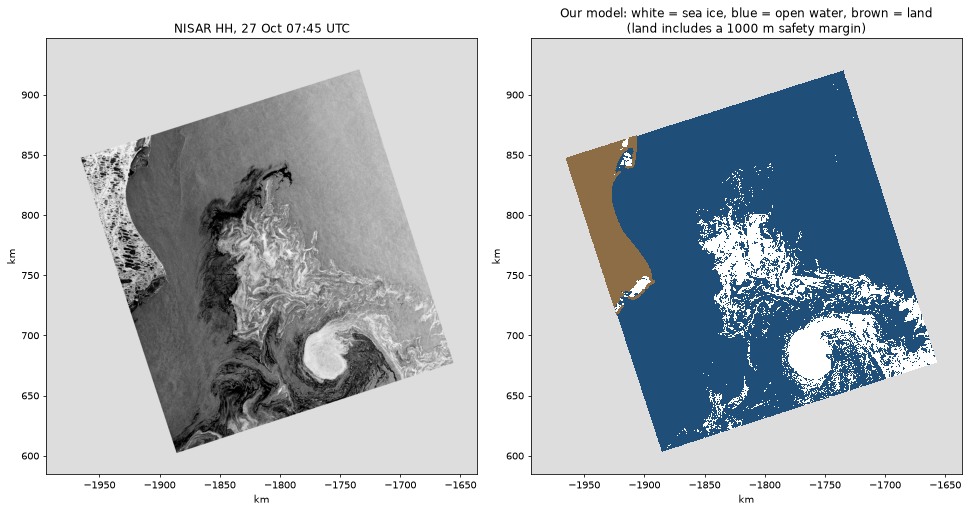
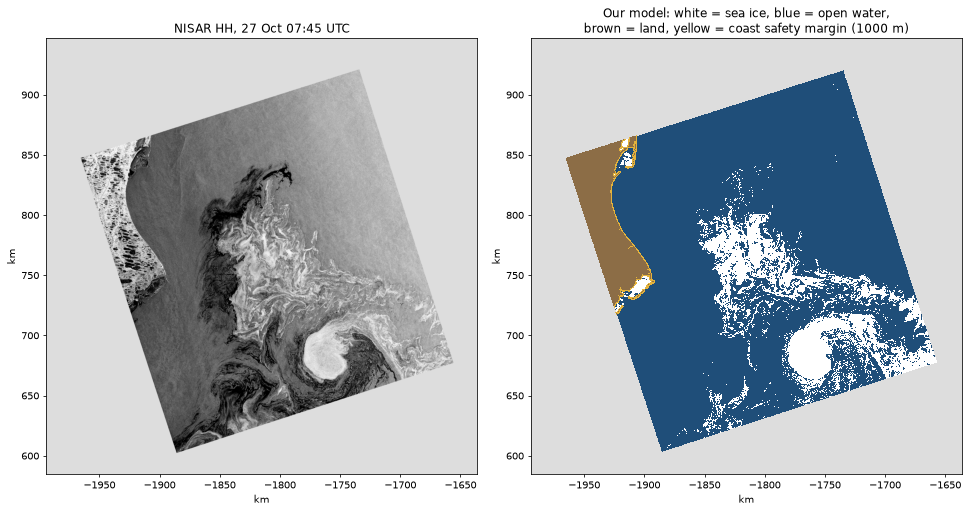
Coast margin as its own class, and maps saved to disk for the interface
- land_mask.land_and_margin: real land and the safety strip as two grids; land outside the grid still casts its margin
- classify_scene: LAND = 2, COAST_MARGIN = 3 (was both 2)
- evaluate_detection.py map SCENE also saves data/maps/SCENE.npz; load_map reads it back without computing

diff --git a/scripts/evaluate_detection.py b/scripts/evaluate_detection.py
@@ -6,7 +6,9 @@ Refuses to run if no model is frozen. Writes models/test_result.json and figures
 
 Map of any downloaded scene (sea ice / open water / land), without touching the test result:
 
-    python scripts/evaluate_detection.py map SCENE_NAME      # writes figures/map_<start time>.png
+    python scripts/evaluate_detection.py map SCENE_NAME      # writes data/maps/SCENE_NAME.npz + figures/map_<start time>.png
+
+The saved map loads in well under a second with `load_map(SCENE_NAME)`: nothing is computed again.
 """
 from __future__ import annotations
 
@@ -23,8 +25,8 @@ from scripts import detection, land_mask, mongo_store, reference         # noqa:
 from scripts.nisar_loader import load_gcov                               # noqa: E402
 from scripts.train_detection import ICE, WATER, load_table, scores       # noqa: E402
 
-MODELS, FIGS = ROOT / "models", ROOT / "figures"
-WATER_C, ICE_C, UNSURE_C, LAND_C = "#1f4e79", "#ffffff", "#9ecae1", "#8c6d46"
+MODELS, FIGS, MAPS = ROOT / "models", ROOT / "figures", ROOT / "data" / "maps"
+WATER_C, ICE_C, UNSURE_C, LAND_C, MARGIN_C = "#1f4e79", "#ffffff", "#9ecae1", "#8c6d46", "#e3b23c"
 
 
 def load_model():
@@ -44,51 +46,73 @@ def predict_scene(frozen, scene):
     return water, usable
 
 
-SEA_ICE, OPEN_WATER, LAND, NO_DATA = 0, 1, 2, 255
+SEA_ICE, OPEN_WATER, LAND, COAST_MARGIN, NO_DATA = 0, 1, 2, 3, 255
+CLASS_NAMES = {SEA_ICE: "sea ice", OPEN_WATER: "open water", LAND: "land", COAST_MARGIN: "coast margin"}
 
 
 def classify_scene(frozen, scene, margin_m: float | None = None) -> np.ndarray:
-    """Map of SEA_ICE / OPEN_WATER / LAND / NO_DATA (uint8). Land comes from the coastline, never from the model.
+    """Map of SEA_ICE / OPEN_WATER / LAND / COAST_MARGIN / NO_DATA (uint8).
 
-    The model first answers on the untouched radar data, exactly as in training; land is painted over afterwards.
-    `margin_m=None` takes the safety margin around land from LAND_MARGIN_M (.env).
+    The model first answers on the untouched radar data, exactly as in training. Afterwards real land and the
+    safety strip of sea next to it (COAST_MARGIN) are painted over, from the coastline, never from the model.
+    `margin_m=None` takes the width of the strip from LAND_MARGIN_M (.env).
     """
     water, usable = predict_scene(frozen, scene)
     out = np.full(usable.shape, NO_DATA, "uint8")
     out[usable] = np.where(water[usable], OPEN_WATER, SEA_ICE)
-    land = land_mask.land_mask(scene.x, scene.y, scene.epsg, margin_m)
-    out[land & np.isfinite(scene.power["hh"])] = LAND
+    land, margin = land_mask.land_and_margin(scene.x, scene.y, scene.epsg, margin_m)
+    seen = np.isfinite(scene.power["hh"])
+    out[margin & seen] = COAST_MARGIN
+    out[land & seen] = LAND
     return out
 
 
+def save_map(name: str, classes: np.ndarray, scene, margin_m: float) -> Path:
+    """Store a finished map with its grid, so an interface can load it without computing anything."""
+    MAPS.mkdir(parents=True, exist_ok=True)
+    out = MAPS / f"{name}.npz"
+    np.savez_compressed(out, classes=classes, x=scene.x, y=scene.y, epsg=scene.epsg, margin_m=margin_m)
+    return out
+
+
+def load_map(name: str) -> dict:
+    """A saved map: classes (uint8 grid), x, y (pixel centres, metres), epsg, margin_m."""
+    path = MAPS / f"{name}.npz"
+    if not path.exists():
+        raise FileNotFoundError(f"{path} is missing. Run: python scripts/evaluate_detection.py map {name}")
+    with np.load(path) as f:
+        return {"classes": f["classes"], "x": f["x"], "y": f["y"], "epsg": int(f["epsg"]), "margin_m": float(f["margin_m"])}
+
+
 def draw_classes(ax, classes, extent, step: int = 2):
-    """Draw a classify_scene map: white = sea ice, blue = open water, brown = land, background = no data."""
+    """Draw a classify_scene map: white = sea ice, blue = water, brown = land, yellow = coast margin, grey = no data."""
     from matplotlib.colors import ListedColormap
     shown = np.where(classes == NO_DATA, np.nan, classes.astype("float32"))
-    ax.imshow(shown[::step, ::step], cmap=ListedColormap([ICE_C, WATER_C, LAND_C]), vmin=0, vmax=2, extent=extent, interpolation="nearest")
-    ax.set_title("Our model: white = sea ice, blue = open water, brown = land")
+    ax.imshow(shown[::step, ::step], cmap=ListedColormap([ICE_C, WATER_C, LAND_C, MARGIN_C]), vmin=0, vmax=3, extent=extent, interpolation="nearest")
+    ax.set_title("Our model: white = sea ice, blue = open water,\nbrown = land, yellow = coast safety margin")
 
 
 def map_figure(frozen, name: str) -> Path:
-    """Radar image next to the three-class map of one scene. Returns the path of the figure."""
+    """Compute the map of one scene once, save it, and draw it next to the radar image. Returns the figure path."""
     import matplotlib
     matplotlib.use("Agg")
     import matplotlib.pyplot as plt
     scene = load_gcov(detection.DATA / f"{name}.h5")
     margin = land_mask.margin_from_env()
     classes = classify_scene(frozen, scene, margin)
+    print("saved", save_map(name, classes, scene, margin))
     extent = [scene.x[0] / 1e3, scene.x[-1] / 1e3, scene.y[-1] / 1e3, scene.y[0] / 1e3]
     fig, axes = plt.subplots(1, 2, figsize=(14, 7))
     axes[0].imshow(10 * np.log10(np.maximum(scene.power["hh"], 1e-4))[::2, ::2], cmap="gray", vmin=-26, vmax=-11, extent=extent)
     axes[0].set_title(f"NISAR HH, {detection.scene_time(name):%d %b %H:%M} UTC")
     draw_classes(axes[1], classes, extent)
-    axes[1].set_title(axes[1].get_title() + f"\n(land includes a {margin:g} m safety margin)")
+    axes[1].set_title(axes[1].get_title() + f" ({margin:g} m)")
     for ax in axes:
         ax.set_facecolor("#dddddd"); ax.set_xlabel("km"); ax.set_ylabel("km")
     out = FIGS / f"map_{detection.scene_time(name):%Y%m%dT%H%M%S}.png"
     plt.tight_layout(); plt.savefig(out, dpi=70, bbox_inches="tight"); plt.close(fig)
-    for cls, label in ((SEA_ICE, "sea ice"), (OPEN_WATER, "open water"), (LAND, "land")):
-        print(f"{label:10s} {np.mean(classes[classes != NO_DATA] == cls):6.1%}")
+    for cls, label in CLASS_NAMES.items():
+        print(f"{label:12s} {np.mean(classes[classes != NO_DATA] == cls):6.1%}")
     return out
 
 

diff --git a/tests/test_evaluate_detection.py b/tests/test_evaluate_detection.py
@@ -29,30 +29,47 @@ def fake_scene(n=80):
                            x=np.arange(n) * 80.0, y=np.arange(n, 0, -1) * 80.0, epsg=3413)
 
 
-def test_land_is_painted_over_the_prediction_and_never_changes_the_model_input(monkeypatch):
+def test_land_and_margin_are_painted_over_the_prediction_and_never_change_the_model_input(monkeypatch):
     scene, model = fake_scene(), RecordingModel()
     frozen = {"model": model, "features": FEATURES}
-    land = np.zeros((80, 80), bool)
+    land, margin, nothing = np.zeros((80, 80), bool), np.zeros((80, 80), bool), np.zeros((80, 80), bool)
     land[:, 50:] = True
     land[:, :5] = True                                                # land where there is no data stays no data
+    margin[:, 45:50] = True
     asked = []
-    monkeypatch.setattr(ev.land_mask, "land_mask", lambda x, y, epsg, margin_m=None: asked.append(margin_m) or land)
+    monkeypatch.setattr(ev.land_mask, "land_and_margin", lambda x, y, epsg, margin_m=None: asked.append(margin_m) or (land, margin))
 
     classes = ev.classify_scene(frozen, scene, margin_m=2500)
     assert asked == [2500]
     assert (classes[:, 50:] == ev.LAND).all()                         # the model said water there; land wins
+    assert (classes[:, 45:50] == ev.COAST_MARGIN).all()               # the strip is its own class, not land
     assert (classes[:, :10] == ev.NO_DATA).all()
-    assert (classes[40, 20:50] == ev.OPEN_WATER).all()
+    assert (classes[40, 20:45] == ev.OPEN_WATER).all()
 
-    monkeypatch.setattr(ev.land_mask, "land_mask", lambda x, y, epsg, margin_m=None: np.zeros((80, 80), bool))
+    monkeypatch.setattr(ev.land_mask, "land_and_margin", lambda x, y, epsg, margin_m=None: (nothing, nothing))
     without_land = ev.classify_scene(frozen, scene)
-    assert not (without_land == ev.LAND).any()
+    assert not np.isin(without_land, (ev.LAND, ev.COAST_MARGIN)).any()
     assert np.array_equal(model.seen[0], model.seen[1])               # same model input with and without land
 
 
 def test_classes_keep_ice_and_water_apart(monkeypatch):
     scene = fake_scene()
     model = SimpleNamespace(predict=lambda X: np.full(len(X), ICE))
-    monkeypatch.setattr(ev.land_mask, "land_mask", lambda x, y, epsg, margin_m=None: np.zeros((80, 80), bool))
+    nothing = np.zeros((80, 80), bool)
+    monkeypatch.setattr(ev.land_mask, "land_and_margin", lambda x, y, epsg, margin_m=None: (nothing, nothing))
     classes = ev.classify_scene({"model": model, "features": FEATURES}, scene)
     assert set(np.unique(classes)) == {ev.SEA_ICE, ev.NO_DATA}
+
+
+def test_saved_map_loads_back_the_same(tmp_path, monkeypatch):
+    import pytest
+    monkeypatch.setattr(ev, "MAPS", tmp_path / "maps")
+    scene = fake_scene()
+    classes = np.random.default_rng(1).integers(0, 4, (80, 80)).astype("uint8")
+    ev.save_map("scene_a", classes, scene, 1500.0)
+    back = ev.load_map("scene_a")
+    assert np.array_equal(back["classes"], classes) and back["classes"].dtype == np.uint8
+    assert np.array_equal(back["x"], scene.x) and np.array_equal(back["y"], scene.y)
+    assert back["epsg"] == 3413 and back["margin_m"] == 1500.0
+    with pytest.raises(FileNotFoundError, match="map scene_b"):
+        ev.load_map("scene_b")

diff --git a/scripts/land_mask.py b/scripts/land_mask.py
@@ -119,18 +119,33 @@ def add_margin(land: np.ndarray, spacing_m: float, margin_m: float = MARGIN_M) -
     return distance_transform_edt(~land) * spacing_m <= margin_m
 
 
-def land_mask(x: np.ndarray, y: np.ndarray, epsg: int, margin_m: float | None = None, path: Path = GSHHG_FILE) -> np.ndarray:
-    """Boolean grid (len(y), len(x)): True = land or within the safety margin of land.
+def land_and_margin(x: np.ndarray, y: np.ndarray, epsg: int, margin_m: float | None = None,
+                    path: Path = GSHHG_FILE) -> tuple[np.ndarray, np.ndarray]:
+    """Two boolean grids (len(y), len(x)): real land, and the safety strip of sea within `margin_m` of land.
 
     `margin_m=None` takes the margin from LAND_MARGIN_M (see `margin_from_env`).
+    Land just outside the grid still casts its margin into it.
     """
     if margin_m is None:
         margin_m = margin_from_env()
     if not Path(path).exists():
         raise FileNotFoundError(f"{path} is missing. Run: python -c 'from scripts.land_mask import download; download()'")
     polygons, bounds = _arctic_land(str(path), epsg)
-    pad = margin_m + abs(float(x[1] - x[0]))
-    x0, x1, y0, y1 = x.min() - pad, x.max() + pad, y.min() - pad, y.max() + pad
+    spacing = abs(float(x[1] - x[0]))
+    pad = int(np.ceil(margin_m / spacing))                 # extra pixels on every side, cut off again below
+    steps = np.arange(-pad, pad + 1)[:pad] * spacing       # -pad .. -1
+    wide_x = np.concatenate([x[0] + steps, x, x[-1] - steps[::-1]])
+    wide_y = np.concatenate([y[0] - steps, y, y[-1] + steps[::-1]])
+    x0, x1, y0, y1 = wide_x.min() - spacing, wide_x.max() + spacing, wide_y.min() - spacing, wide_y.max() + spacing
     near = (bounds[:, 2] >= x0) & (bounds[:, 0] <= x1) & (bounds[:, 3] >= y0) & (bounds[:, 1] <= y1)
-    land = rasterize_land([p for p, hit in zip(polygons, near) if hit], x, y)
-    return add_margin(land, abs(float(x[1] - x[0])), margin_m)
+    land = rasterize_land([p for p, hit in zip(polygons, near) if hit], wide_x, wide_y)
+    inner = (slice(pad, pad + len(y)), slice(pad, pad + len(x)))
+    with_margin = add_margin(land, spacing, margin_m)[inner]
+    land = land[inner]
+    return land, with_margin & ~land
+
+
+def land_mask(x: np.ndarray, y: np.ndarray, epsg: int, margin_m: float | None = None, path: Path = GSHHG_FILE) -> np.ndarray:
+    """Boolean grid (len(y), len(x)): True = land or within the safety margin of land."""
+    land, margin = land_and_margin(x, y, epsg, margin_m, path)
+    return land | margin

diff --git a/tests/test_land_mask.py b/tests/test_land_mask.py
@@ -98,3 +98,22 @@ def test_land_mask_uses_the_margin_from_the_environment(tmp_path, monkeypatch):
     wide = land_mask(x, y, 3413, path=f)
     assert (narrow == land_mask(x, y, 3413, margin_m=1000, path=f)).all()
     assert wide.sum() > narrow.sum() and wide[narrow].all()       # a wider margin only adds land
+
+
+def test_land_and_margin_are_separate_and_land_outside_the_grid_still_counts(tmp_path):
+    from pyproj import Transformer
+    from scripts.land_mask import land_and_margin
+    f = tmp_path / "g.b"
+    f.write_bytes(polygon_bytes(square(-160.0, 71.0, 0.2), 1, 72))
+    cx, cy = Transformer.from_crs(4326, 3413, always_xy=True).transform(-159.9, 71.1)
+    x, y = np.arange(cx - 30_000, cx + 30_000, 400.0), np.arange(cy + 30_000, cy - 30_000, -400.0)
+    land, margin = land_and_margin(x, y, 3413, margin_m=2000, path=f)
+    assert land.any() and margin.any() and not (land & margin).any()
+    assert (land == land_mask(x, y, 3413, margin_m=0, path=f)).all()
+    assert ((land | margin) == land_mask(x, y, 3413, margin_m=2000, path=f)).all()
+    # a grid that starts just past the island: no land inside it, but the margin reaches in
+    rows, cols = np.nonzero(land)
+    start = cols.max() + 2
+    land2, margin2 = land_and_margin(x[start:], y, 3413, margin_m=2000, path=f)
+    assert not land2.any() and margin2.any()
+    assert (margin2 == margin[:, start:]).all()

diff --git a/docs/DETECTION.md b/docs/DETECTION.md
@@ -57,15 +57,17 @@ Status: **finished and frozen on 14 Nov 2026.** Do not tune the model on the tes
 
 - Land comes from the **GSHHG full-resolution coastline** (third party, see `DATA_SOURCES.md`), not from the model.
 - **Land is applied after the prediction.** The model first answers on the untouched radar data, exactly as in
-  training. Then every land pixel is overwritten with "land". The model input never changes.
+  training. Then land and the coast margin are painted over it. The model input never changes.
 - A **safety margin** is added around all land (default 1 km). Lakes count as land.
+- **Land and margin are separate classes:** `LAND` is real land, `COAST_MARGIN` is the strip of sea next to it.
+  Land just outside the image still casts its margin into it.
 - Set the margin with `LAND_MARGIN_M` (metres) in `.env` or as an environment variable; see `.env.example`.
   A negative or non-number value stops the run. Below 400 m you get a warning: the model looks at a 720 m
   window, so answers that close to the coast are computed from pixels that contain land.
-- `classify_scene` returns a map with sea ice, open water, land and no-data.
+- `classify_scene` returns a map with sea ice, open water, land, coast margin and no-data.
 - Check on a real coastal scene: `figures/land_mask_check.png`. The coastline lines up with the radar image.
-- Same scene (Utqiagvik, 27 Oct) as a full map: `figures/map_20261027T074517.png`. Land share of the scene by
-  margin: 6.4 % at 0 m, 7.0 % at 1000 m, 8.9 % at 5000 m.
+- Same scene (Utqiagvik, 27 Oct) as a full map: `figures/map_20261027T074517.png`. Land is 6.4 % of the
+  scene; the margin adds 0.6 % at 1000 m and 2.5 % at 5000 m.
 - Not included: water depth. A shallow-water limit for shipping would need a depth chart.
 - First mask of a session takes about 30 s (reading the coastline); it is slow for an app unless cached per scene.
 
@@ -116,17 +118,28 @@ water, usable = predict_scene(load_model(), load_gcov("data/<scene>.h5"))   # wa
 With land (recommended for anything shown to users):
 
 ```python
-from scripts.evaluate_detection import LAND, OPEN_WATER, SEA_ICE, classify_scene, load_model
+from scripts.evaluate_detection import COAST_MARGIN, LAND, OPEN_WATER, SEA_ICE, classify_scene, load_model
 from scripts.nisar_loader import load_gcov
 
-classes = classify_scene(load_model(), load_gcov("data/<scene>.h5"))        # 0 sea ice, 1 open water, 2 land, 255 no data
+classes = classify_scene(load_model(), load_gcov("data/<scene>.h5"))        # 0 sea ice, 1 open water, 2 land, 3 coast margin, 255 no data
 ```
 
-Or as a picture (radar image next to the map, written to `figures/map_<start time>.png`):
+Compute a scene once and save it (about a minute). Writes the map to `data/maps/<scene name>.npz` and a
+picture to `figures/map_<start time>.png`:
 
 ```
 .venv/bin/python scripts/evaluate_detection.py map <scene name>
 ```
+
+An interface then loads the saved map in well under a second, with nothing computed again:
+
+```python
+from scripts.evaluate_detection import load_map
+
+m = load_map("<scene name>")     # m["classes"], m["x"], m["y"], m["epsg"], m["margin_m"]
+```
+
+The margin is baked into a saved map. After changing `LAND_MARGIN_M`, run the `map` command again.
 
 ## Files
 

diff --git a/HANDOFF.md b/HANDOFF.md
@@ -32,8 +32,11 @@ First building blocks for trajectory:
 - Checked on a coastal scene (Utqiagvik, 27 Oct): without the mask the model calls 97.5 % of land "ice"; with it, land is
   shown as land and the coastline lines up with the radar image (`figures/land_mask_check.png`).
 - 15 Nov: land is applied **after** the prediction (model input untouched). Margin around the coast is set with
-  `LAND_MARGIN_M` in `.env` (default 1000 m, template in `.env.example`). Map of any scene:
-  `python scripts/evaluate_detection.py map <scene name>`. Example: `figures/map_20261027T074517.png`.
+  `LAND_MARGIN_M` in `.env` (default 1000 m, template in `.env.example`). The margin is its own class
+  (`COAST_MARGIN = 3`), separate from real land (`LAND = 2`).
+- For the interface: `python scripts/evaluate_detection.py map <scene name>` computes a scene once and saves it to
+  `data/maps/`; `load_map(name)` reads it back in 0.04 s. Example picture: `figures/map_20261027T074517.png`.
+- Idea, not started: a safety margin around ice for ship routes. Belongs with the route / interface work.
 - Idea, not started: also use sea depth for the shipping route.
 - First mask takes about 30 s. For the app: compute once per scene and cache it.
 - Not validated: ice / water quality close to the coast.
@@ -62,7 +65,7 @@ First building blocks for trajectory:
 | Reference data and drawbacks | `docs/REFERENCE_DATA.md` |
 | Which data is used where, third parties | `docs/DATA_SOURCES.md` |
 | Why we chose this data | `docs/DATA_CHOICES.md` |
-| Code | `scripts/` (61 tests in `tests/`, run `.venv/bin/python -m pytest -q tests`) |
+| Code | `scripts/` (63 tests in `tests/`, run `.venv/bin/python -m pytest -q tests`) |
 | Tracking run | `scripts/run_chukchi.py` (writes MongoDB + `figures/chukchi_*.png`) |
 | Raw data (not in git) | `data/`, about 13.5 GB. ICESat-2 files and the unused 28 Oct Sentinel-1 scene were deleted on 14 Nov; the scripts fetch ICESat-2 again if a table is rebuilt |
 
